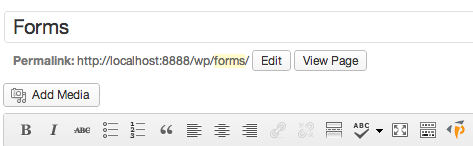
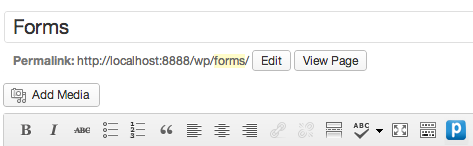
Update to 1.3.6

Changed region(s): [[0.9175, 0.8219, 1.0, 0.9589]]

diff --git a/trunk/includes/pardot-api-class.php b/trunk/includes/pardot-api-class.php
@@ -172,15 +172,18 @@ class Pardot_API {
                 }
             }
 
-            if ( $response->result->total_results >= 200 ) {
-                if ( $response = $this->get_response( 'campaign', $args, 'result', 2 ) ) {
-                    for( $i = 0; $i < ($response->result->total_results-200); $i++ ) {
-                        $campaign = (object)$response->result->campaign[$i];
-                        if ( isset($campaign->id) ) {
-                            $campaigns[(int)$campaign->id] = $this->SimpleXMLElement_to_stdClass( $campaign );
-                        }
-                    }
-                }
+            if ( $limit >= 200 ) {
+	            $numpag = round($response->result->total_results/200)+1;
+	            for( $j = 2; $j <= ($numpag); $j++ ) {
+	                if ( $response = $this->get_response( 'campaign', $args, 'result', $j ) ) {
+	                    for( $i = 0; $i < ($response->result->total_results-200); $i++ ) {
+	                        $campaign = (object)$response->result->campaign[$i];
+	                        if ( isset($campaign->id) ) {
+	                            $campaigns[(int)$campaign->id] = $this->SimpleXMLElement_to_stdClass( $campaign );
+	                        }
+	                    }
+	                }
+	            }
             }
 
 		}
@@ -235,29 +238,32 @@ class Pardot_API {
 	function get_forms( $args = array() ) {
 		$forms = false;
 		if ( $response = $this->get_response( 'form', $args ) ) {
-			
+
 			$forms = array();
-			
+
 			if ( $response->result->total_results >= 200 ) {
 				$limit = 200;
 			} else {
 				$limit = $response->result->total_results;
 			}
-			
+
 			for( $i = 0; $i < $limit; $i++ ) {
 				$form = $response->result->form[$i];
-				$forms[(int)$form->id] = $this->SimpleXMLElement_to_stdClass( $form );	
+				$forms[(int)$form->id] = $this->SimpleXMLElement_to_stdClass( $form );
 			}
-			
-			if ( $response->result->total_results >= 200 ) {
-				if ( $response = $this->get_response( 'form', $args, 'result', 2 ) ) {
-					for( $i = 0; $i < ($response->result->total_results-200); $i++ ) {
-						$form = $response->result->form[$i];
-						$forms[(int)$form->id] = $this->SimpleXMLElement_to_stdClass( $form );	
+
+			if ( $limit >= 200 ) {
+				$numpag = round($response->result->total_results/200)+1;
+				for( $j = 2; $j <= ($numpag); $j++ ) {
+					if ( $response = $this->get_response( 'form', $args, 'result', $j ) ) {
+						for( $i = 0; $i < ($response->result->total_results-200); $i++ ) {
+							$form = $response->result->form[$i];
+							$forms[(int)$form->id] = $this->SimpleXMLElement_to_stdClass( $form );
+						}
 					}
 				}
 			}
-			
+
 		};
 		return $forms;
 	}
@@ -276,29 +282,32 @@ class Pardot_API {
 	function get_dynamicContent( $args = array() ) {
 		$dynamicContents = false;
 		if ( $response = $this->get_response( 'dynamicContent', $args ) ) {
-			
+
 			$dynamicContents = array();
-			
+
 			if ( $response->result->total_results >= 200 ) {
 				$limit = 200;
 			} else {
 				$limit = $response->result->total_results;
 			}
-			
+
 			for( $i = 0; $i < $limit; $i++ ) {
 				$dynamicContent = $response->result->dynamicContent[$i];
 				$dynamicContents[(int)$dynamicContent->id] = $this->SimpleXMLElement_to_stdClass( $dynamicContent );
 			}
-			
-			if ( $response->result->total_results >= 200 ) {
-				if ( $response = $this->get_response( 'form', $args, 'result', 2 ) ) {
-					for( $i = 0; $i < ($response->result->total_results-200); $i++ ) {
-						$dynamicContent = $response->result->dynamicContent[$i];
-						$dynamicContents[(int)$dynamicContent->id] = $this->SimpleXMLElement_to_stdClass( $dynamicContent );	
+
+			if ( $limit >= 200 ) {
+				$numpag = round($response->result->total_results/200)+1;
+				for( $j = 2; $j <= ($numpag); $j++ ) {
+					if ( $response = $this->get_response( 'dynamicContent', $args, 'result', $j ) ) {
+						for( $i = 0; $i < ($response->result->total_results-200); $i++ ) {
+							$dynamicContent = $response->result->dynamicContent[$i];
+							$dynamicContents[(int)$dynamicContent->id] = $this->SimpleXMLElement_to_stdClass( $dynamicContent );
+						}
 					}
 				}
 			}
-			
+
 		};
 		return $dynamicContents;
 	}
@@ -407,10 +416,10 @@ x	 */
 
 		if ( ! $this->api_key && 'login' != $item_type ) {
 			$this->authenticate( $args );
-		}	
-									
-		$args = array_merge( $args, 
-			array( 
+		}
+
+		$args = array_merge( $args,
+			array(
 				'user_key' => $this->user_key,
 				'api_key' => $this->api_key,
 				// Here for Pardot root-level debugging only
@@ -418,7 +427,7 @@ x	 */
 				'offset' => $paged > 1 ? ($paged-1)*200 : 0
 			)
 		);
-				
+
 		$http_response = wp_remote_request(
 			$this->_get_url( $item_type, $args ),
 			array_merge( array(
@@ -432,15 +441,15 @@ x	 */
 				'body'          => $args
 			), $args )
 		);
-		
-		if ( isset($args['email']) ) {	
+
+		if ( isset($args['email']) ) {
 			$args['email'] = urlencode( $args['email'] );
 		}
-		
-		if ( isset($args['password']) ) {	
+
+		if ( isset($args['password']) ) {
 			$args['password'] = urlencode( $args['password'] );
 		}
-				
+
 		$response = false;
 		if( wp_remote_retrieve_response_code( $http_response ) == 200 ) {
 			$response = new SimpleXMLElement( wp_remote_retrieve_body( $http_response ) );

diff --git a/trunk/includes/pardot-settings-class.php b/trunk/includes/pardot-settings-class.php
@@ -313,7 +313,7 @@ HTML;
 	 * @since 1.0.0
 	 */
 	function sanitize_fields( $dirty ) {
-	
+
 		/**
 		 * Nothing passed? Then nothing to sanitize.
 		 */
@@ -331,19 +331,19 @@ HTML;
 		if ( isset( $_POST['reset'] ) ) {
 			global $wpdb;
 			$collecttrans = $wpdb->get_col( "SELECT option_name FROM {$wpdb->options} WHERE option_name LIKE '_transient_pardot%';" );
-			
+
 			foreach ( $collecttrans as $collecttran ) {
 				delete_transient(str_replace('_transient_', '', $collecttran));
 			}
-			
+
 			add_settings_error( self::$OPTION_GROUP, 'reset_settings', __( 'Settings have been reset!', 'pardot' ), 'updated' );
 			return $clean;
 		}
-		
+
 		if ( isset( $_POST['clear'] ) ) {
 			global $wpdb;
 			$collecttrans = $wpdb->get_col( "SELECT option_name FROM {$wpdb->options} WHERE option_name LIKE '_transient_pardot%';" );
-			
+
 			foreach ( $collecttrans as $collecttran ) {
 				delete_transient(str_replace('_transient_', '', $collecttran));
 			}
@@ -482,7 +482,7 @@ HTML;
 		 */
 		unset( $new_options['submit'] );
 		unset( $new_options['reset'] );
-		
+
 		/**
 		 * Trim whitespace
 		 */
@@ -546,7 +546,7 @@ HTML;
 		 */
 		$html =<<<HTML
 <div class="wrap" id="{$admin_page}">
-	<h2 class="pardot-title"><img src="{$logo_url}" alt="{$alt_text}" width="201" height="71" class="alignleft" />{$title}</h2>
+	<h2 class="pardot-title"><img src="{$logo_url}" alt="{$alt_text}" width="135" height="71" class="alignleft" />{$title}</h2>
 	<form action="{$options_url}" method="post">
 HTML;
 		echo $html;
@@ -669,7 +669,7 @@ HTML;
 				$selected = selected( $selected_value, $value, false );
 				if ( isset($data->name) ) {
 					$campaign_name = esc_html( $data->name );
-				}	
+				}
 				$html[] = "<option {$selected} value=\"{$value}\">{$campaign_name}</option>";
 			}
 			$html[] = '</select></div>';
@@ -702,7 +702,7 @@ HTML;
 HTML;
 		echo $html;
 	}
-	
+
 	/**
 	 * Displays the Clear Cache button for the Settings API
 	 *
@@ -715,7 +715,7 @@ HTML;
 HTML;
 		echo $html;
 	}
-	
+
 	/**
 	 * Encrypts with a bit more complexity
 	 *
@@ -731,7 +731,7 @@ HTML;
 			return base64_encode($input_string);
 		}
 	}
-	
+
 	/**
 	 * Decrypts with a bit more complexity
 	 *

diff --git a/trunk/pardot.php b/trunk/pardot.php
@@ -7,7 +7,7 @@
  * Plugin URI: http://wordpress.org/extend/plugins/pardot/
  * Developer: Cliff Seal of Pardot and Mike Schinkel of NewClarity LLC
  * Developer URI: http://pardot.com
- * Version: 1.3.5
+ * Version: 1.3.6
  * License: GPLv2
  *
  * Copyright 2012 Pardot LLC
@@ -28,7 +28,7 @@
  */
 
 define( 'PARDOT_PLUGIN_DIR', dirname( __FILE__ ) );
-define( 'PARDOT_PLUGIN_VER', '1.3.5' );
+define( 'PARDOT_PLUGIN_VER', '1.3.6' );
 
 if ( ! defined( 'PARDOT_FORM_INCLUDE_TYPE' ) )
 	define( 'PARDOT_FORM_INCLUDE_TYPE', 'iframe' );	// iframe or inline

diff --git a/README.md b/README.md
@@ -95,6 +95,11 @@ Go to Settings > Pardot Settings and click 'Reset Cache'. This should reinitiali
 
 ## Changelog ##
 
+### 1.3.6 ###
+
+1. Adds support for 400+ campaigns, form, and dynamic content blocks
+1. Updates branding
+
 ### 1.3.5 ###
 
 1. Fixed a bug where pardotform class might be applied to closing iframe tag (thanks palpatine1976!)
